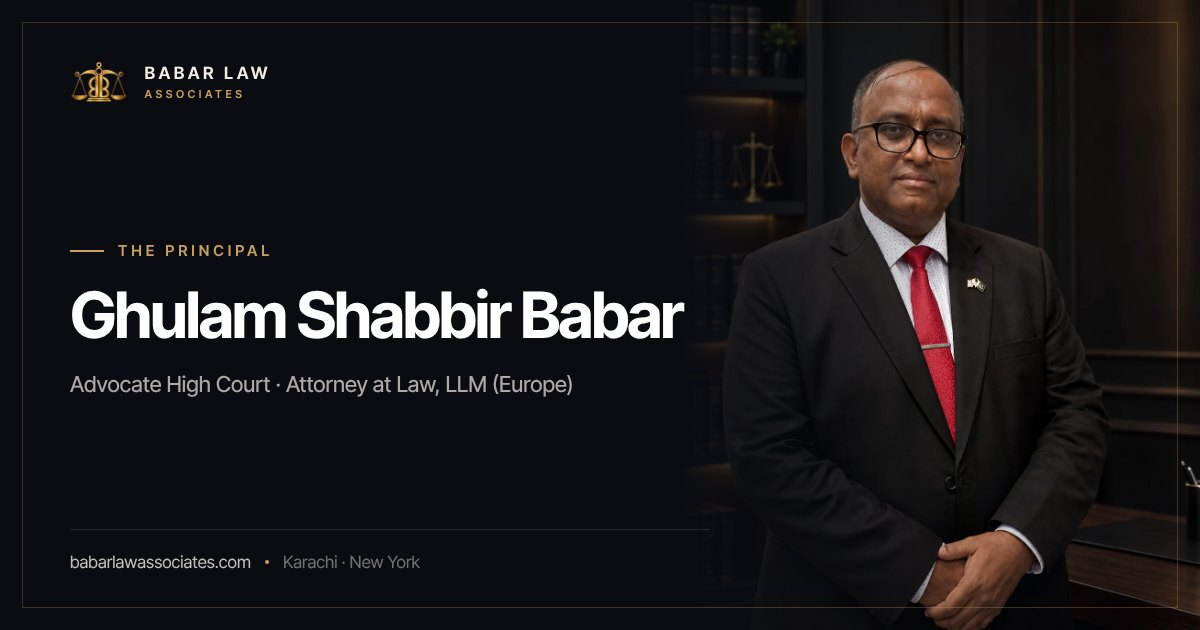
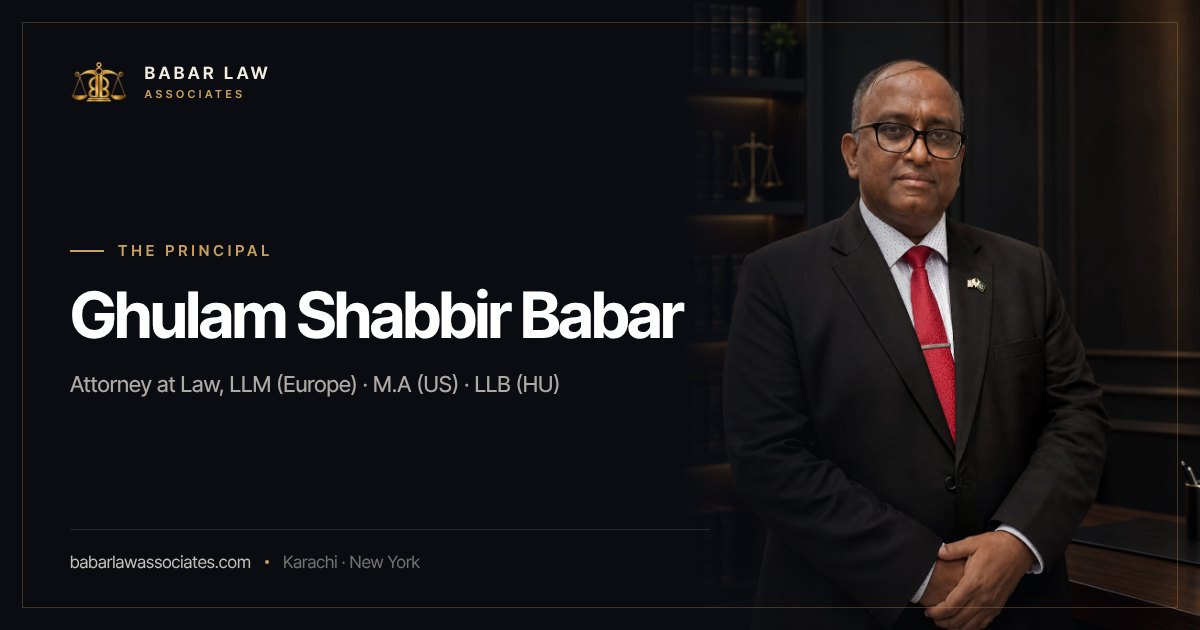
Add A+ Capital cooperation; update Mr. Babar's designation (#14)
* Add Insights articles, sharpen homepage title, track enquiry source

- New /insights index and three article pages (Greece Golden Visa,
  pre-arrest bail in Sindh, UK student visa refusals) with Article and
  breadcrumb JSON-LD, author byline, summary box and enquiry sidebar
- Latest insights section on the homepage; Insights in nav, footer, sitemap
- Homepage title/description now lead with "Lawyers & Advocates in Karachi"
- Contact form asks "How did you hear about us?" and passes it to the
  enquiry email and the generate_lead event

Claude-Session: https://claude.ai/code/session_01De2432audqsWNzksNNy9kc

* Redesign article pages for comfortable reading

Centred editorial header with standfirst, wide cover image overlapping
the header, a 700px reading column with a larger lead paragraph, sticky
"On this page" contents that tracks the current section, numbered step
cards, an author card and an end-of-article enquiry block.

Claude-Session: https://claude.ai/code/session_01De2432audqsWNzksNNy9kc

* Add hosted logo for the email signature

A small (14 KB) trimmed copy of the scales mark at /email/babar-law-mark.png,
referenced by the Gmail signature so the logo loads quickly in every inbox.

Claude-Session: https://claude.ai/code/session_01De2432audqsWNzksNNy9kc

* Give every page its own link-preview card

Shared links to any page now show a branded 1200x630 preview (logo, the
page's eyebrow and title, its photo, and the web address) on WhatsApp,
[…]

Changed region(s): [[0.0617, 0.573, 0.4933, 0.6333]]

diff --git a/lib/content.ts b/lib/content.ts
@@ -67,7 +67,9 @@ export const teamGroups = [
 
 export const principal = {
   name: "Ghulam Shabbir Babar",
-  designation: "Attorney at Law · LLM (Europe)",
+  designation: "Attorney at Law, LLM (Europe) · M.A (US) · LLB (HU) · Recognized Counsellor and Agent (British Council) · ADR, Mediator and Conciliator",
+  // Short form for bylines and tight spaces.
+  short: "Attorney at Law, LLM (Europe)",
   role: "Principal & Partner",
   image: "/assets/team/ghulam-shabbir-babar.jpg",
 };
@@ -120,7 +122,7 @@ export const areasHome = [
 
 export const areasFull = [
   { num: "01", title: "Immigration & visas", body: "Immigration consultancy provided globally since 2004, covering study, work, family and settlement routes, appeals and representation. Matters connected to the United States are handled together with the Law Offices of Manuel B. Quintal, P.C., New York.", tags: ["United States", "United Kingdom", "Canada", "European Union"] },
-  { num: "02", title: "Citizenship & residency by investment", body: "Advice on property-based investment programmes, including the Greek Golden Visa programme and Cyprus permanent residency through government-approved developments in Larnaca.", tags: ["Greece", "Cyprus", "Permanent residency", "Citizenship"] },
+  { num: "02", title: "Citizenship & residency by investment", body: "Advice on property-based investment programmes, including the Greek Golden Visa programme and Cyprus permanent residency through government-approved developments in Larnaca, and citizenship by investment programmes such as Vanuatu and São Tomé and Príncipe through A+ Capital.", tags: ["Greece", "Cyprus", "Permanent residency", "Citizenship"] },
   { num: "03", title: "Banking & consumer law", body: "Babar Law Associates has been enlisted in the UBL Legal Panel Team and provides services in banking law, consumer law and related fields.", tags: ["Banking law", "Consumer law", "Recovery"] },
   { num: "04", title: "Corporate & commercial", body: "Drafting and negotiation of agreements and contracts, mergers, acquisitions and privatisation of firms, corporations and banks, together with ongoing commercial advice for companies operating across borders.", tags: ["Contracts", "M&A", "Privatisation"] },
   { num: "05", title: "Litigation", body: "Litigation practice since 2004 in criminal, civil, constitutional petitions, service matters, labour law and family law before the courts of Pakistan.", tags: ["Criminal", "Civil", "Constitutional", "Service matters"] },
@@ -172,6 +174,7 @@ export const memberships = [
 ];
 
 export const experience = [
+  { period: "Nov 2026 to Present", place: "Hong Kong / Port Vila, Vanuatu · Remote", role: "Cooperation Agreement", org: "A Plus Capital Ltd (A+ Capital)", note: "Cooperation Agreement with A+ Capital in international immigration services: citizenship and residency by investment programmes, including Vanuatu and São Tomé and Príncipe." },
   { period: "Nov 2026 to Present", place: "Athens, Greece", role: "Cooperation Agreement", org: "Hellenic Investment Fund (HIF)", note: "Cooperation with Hellenic Investment Fund Co IKE (HIF), Athens, a real estate development and construction company with over 73 apartment buildings completed across Athens, on property investment in Greece, including for Greece Golden Visa clients." },
   { period: "2026", place: "Washington, D.C., United States", role: "Judge", org: "Philip C. Jessup International Law Moot Court Competition (ILSA) · White & Case International Rounds", note: "Invited as Judge at the White & Case International Rounds of the 2026 Philip C. Jessup International Law Moot Court Competition, Hyatt Regency, Capitol Hill, Washington, D.C., 28 March – 4 April 2026." },
   { period: "2026 to Present", place: "Greece", role: "Cooperation Agreement", org: "Epirus Assets Real Estate Investment", note: "Cooperation with Ms. Olga of Epirus Assets Real Estate Investment, Athens, Greece, on the Greece Golden Visa programme." },
@@ -201,6 +204,7 @@ export const partners = [
   { country: "Portugal / EU", name: "Visa Doro", role: "Cooperation agreement · Accredited STP Agent to Portugal & the EU", note: "Cooperation with Mr. José Mineiro, CEO of Visa Doro, on business- and property-based Golden Visa investment routes into Portugal.", logo: "/assets/visa-doro-logo.png", url: "https://www.visadoro.com/" },
   { country: "Greece", name: "CHRO'NI & Associates Law Firm", role: "Memorandum of Understanding", note: "MoU with Ms. Anastasia Chorni, Founder & Chief Lawyer of CHRO'NI & Associates Law Firm, to work together on the Greece Golden Visa programme.", logo: "/assets/chroni-logo.png", url: "https://chronilaw.com/" },
   { country: "Greece", name: "Hellenic Investment Fund (HIF)", role: "Cooperation agreement · since Nov 2026", note: "Cooperation with Hellenic Investment Fund Co IKE (HIF), Athens: a real estate development and construction company that has built over 73 apartment buildings across Athens and offers apartments, homes and villas to investors. The firm works with HIF as a B2B partner on property investment in Greece, including for Greece Golden Visa clients.", logo: "/assets/hif-logo.png", url: "https://www.hifgr.com/" },
+  { country: "Hong Kong / Vanuatu", name: "A Plus Capital Ltd (A+ Capital)", role: "Cooperation agreement · International immigration services", note: "Cooperation with A Plus Capital, an investment migration consultancy headquartered in Hong Kong with an office in Port Vila, Vanuatu, on citizenship and residency by investment. A Plus Capital is a licensed Marketing Agent of the São Tomé and Príncipe Citizenship by Investment Program (licence STP-2026-120), and its affiliate A+ South Pacific Citizenship Limited is an approved agent of the Vanuatu Development Support Program.", logo: "/assets/aplus-capital-logo.png", url: "https://a.plus/" },
   { country: "Cyprus", name: "Singularis Investment Ltd", role: "Consultant · since Feb 2018", note: "Agreement to promote all development projects of Singularis Investments in Larnaca, a Cyprus Government approved project for permanent residency applications.", logo: "/assets/singularis-logo.webp", url: undefined },
   { country: "Cyprus", name: "Karma Developers", role: "Cooperation agreement", note: "Cooperation on Cyprus development projects supporting permanent residency applications.", logo: "/assets/karma-logo.svg", url: undefined },
   { country: "United Arab Emirates", name: "Hotel101", role: "Cooperation agreement", note: "Cooperation with Hotel101, supporting real estate and investment-related client engagements in Dubai.", logo: "/assets/hotel101-logo.png", url: "https://hotel101global.com" },
@@ -247,7 +251,7 @@ export const emle = [
 export const faqs = [
   { q: "Which countries does the firm advise on?", a: "Immigration and investment work is handled for Pakistan, the United States, the United Kingdom, Canada, Cyprus, Greece and the wider European Union. Litigation is conducted before the courts of Pakistan; matters in New York are handled jointly with the Law Offices of Manuel B. Quintal, P.C." },
   { q: "Can you assist clients who live in the US or UK?", a: "Yes. A large part of the practice is conducted remotely for clients abroad, with documents exchanged electronically and consultations held by video call across time zones." },
-  { q: "What is the Golden Visa / residency by investment work?", a: "The firm advises on property-based investment routes, including the Greek Golden Visa programme through PassBeyond and Cyprus permanent residency through approved developments in Larnaca." },
+  { q: "What is the Golden Visa / residency by investment work?", a: "The firm advises on property-based investment routes, including the Greek Golden Visa programme through PassBeyond and Cyprus permanent residency through approved developments in Larnaca, and citizenship by investment programmes through A+ Capital." },
   { q: "Do you act for banks and companies?", a: "Yes. Babar Law Associates is enlisted on the UBL legal panel and advises on banking law, consumer law, corporate and commercial matters, including drafting of agreements, contracts, mergers, acquisitions and privatisation." },
   { q: "How do consultations work?", a: "Send a short summary of your matter through the contact page or by email. You will receive an initial assessment and, where the firm can act, a scope of work and fee basis before any engagement begins." },
   { q: "Does the firm take academic and research work?", a: "Ghulam Shabbir Babar serves as Visiting Professor and LLM thesis supervisor at several universities and is available for guest lectures, curriculum advice and supervision through the EMLE network." },
@@ -272,7 +276,7 @@ export const matterTypes = [
   {
     id: "investment",
     label: "Citizenship & Residency by Investment",
-    helper: "Let us know which programme interests you (Greece Golden Visa, Cyprus permanent residency) and your approximate investment budget.",
+    helper: "Let us know which programme interests you (Greece Golden Visa, Cyprus permanent residency, citizenship by investment) and your approximate investment budget.",
     fields: [
       { name: "programCountry", label: "Programme country", placeholder: "e.g. Greece or Cyprus" },
       { name: "budget", label: "Approximate investment budget", placeholder: "e.g. €250,000 – €400,000" },

diff --git a/lib/practice.ts b/lib/practice.ts
@@ -75,16 +75,18 @@ export const practicePages: PracticePage[] = [
     seoTitle: "Golden Visa Lawyer: Greece, Cyprus & Portugal",
     description:
       "Golden Visa and property-based residency advice for Greece, Cyprus and Portugal, through government-approved developments and partners in Greece, Cyprus and Portugal.",
-    lead: "Advice on property-based residency and citizenship programmes in Greece, Cyprus and Portugal, through partners on the ground in each country.",
+    lead: "Advice on residency and citizenship by investment: property-based Golden Visa routes in Greece, Cyprus and Portugal, and citizenship programmes through partners on the ground.",
     body: [
       "Investment migration has been part of the firm's practice since 2017, when Babar Law Associates began working with Cyprus developers including Karma Developers, Singularis Investment Ltd, JWPegasus Ltd and Giovani Developers Limited. Singularis developments in Larnaca are approved by the Cyprus Government for permanent residency applications. (Cyprus closed its citizenship-by-investment programme in 2020.)",
       "For Greece, the firm cooperates with PassBeyond in Athens, where Mr. Babar is Relationship Manager, with Epirus Assets Real Estate Investment and Hellenic Investment Fund (HIF), real estate developers in Athens, and with CHRO'NI & Associates Law Firm under a memorandum of understanding on the Greece Golden Visa programme. For Portugal and the wider EU, it works with Visa Doro, an Accredited STP Agent.",
+      "For citizenship by investment, the firm cooperates with A Plus Capital (A+ Capital), headquartered in Hong Kong with an office in Port Vila, Vanuatu. A+ Capital is a licensed Marketing Agent of the São Tomé and Príncipe Citizenship by Investment Program, and its affiliate is an approved agent of the Vanuatu Development Support Program.",
       "Programme rules and investment thresholds change from time to time, so every engagement starts with a current assessment of the options for the client and their family.",
     ],
     services: [
       "Greece Golden Visa through property investment",
       "Cyprus permanent residency applications",
       "Portugal and EU Golden Visa routes",
+      "Citizenship by investment, including Vanuatu and São Tomé and Príncipe, with A+ Capital",
       "Choosing a programme and a government-approved development",
       "Coordination with developers, lawyers and agents in each country",
       "Preparation of the application file",
@@ -97,7 +99,7 @@ export const practicePages: PracticePage[] = [
     side: "/assets/gallery/cyprus-01.jpg",
     sideAlt: "Ghulam Shabbir Babar on a site visit to Karma Developers properties, Cyprus",
     sidePos: "center",
-    facts: [{ value: 3, label: "Programme countries: Greece, Cyprus and Portugal" }, { value: 2017, label: "Investment migration work since" }, { value: 10, label: "Partner developers, firms and agents" }],
+    facts: [{ value: 3, label: "Golden Visa countries: Greece, Cyprus and Portugal" }, { value: 2017, label: "Investment migration work since" }, { value: 11, label: "Partner developers, firms and agents" }],
   },
   {
     num: "03",

diff --git a/app/insights/[slug]/page.tsx b/app/insights/[slug]/page.tsx
@@ -151,7 +151,7 @@ export default async function ArticlePage({ params }: PageProps<"/insights/[slug
               </span>
               <span>
                 <span className="block text-white">{principal.name}</span>
-                <span className="block text-[12.5px] text-cream/55">Advocate High Court</span>
+                <span className="block text-[12.5px] text-cream/55">{principal.short}</span>
               </span>
             </span>
             <span className="hidden sm:block w-px h-8 bg-cream/15" />
@@ -216,8 +216,7 @@ export default async function ArticlePage({ params }: PageProps<"/insights/[slug
                 <div className="text-[12px] tracking-[0.14em] uppercase text-ink/45 mb-1.5">Written by</div>
                 <Link href="/about" className="font-display font-medium text-[21px] text-ink hover:text-gold-deep">{principal.name}</Link>
                 <p className="m-0 mt-2 text-[15px] leading-relaxed text-ink/65">
-                  Advocate of the High Court of Sindh and Foreign Attorney in New York, with an Erasmus Mundus LLM
-                  from Bologna and Ghent. In litigation and international practice since 2004.
+                  {principal.designation}. Foreign Attorney in New York, in litigation and international practice since 2004.
                 </p>
               </div>
             </div>

diff --git a/app/layout.tsx b/app/layout.tsx
@@ -21,7 +21,7 @@ const interTight = Inter_Tight({
 });
 
 const description =
-  "Lawyers and advocates in Karachi since 2004: litigation before the High Court of Sindh, bail, immigration and Golden Visa, banking and corporate law. Led by Ghulam Shabbir Babar, Advocate High Court. Call +92 300 2723976.";
+  "Lawyers and advocates in Karachi since 2004: litigation before the High Court of Sindh, bail, immigration and Golden Visa, banking and corporate law. Led by Ghulam Shabbir Babar, Attorney at Law, LLM (Europe). Call +92 300 2723976.";
 
 export const metadata: Metadata = {
   metadataBase: new URL(siteUrl),
@@ -103,7 +103,7 @@ const jsonLd = {
       "@type": "Person",
       "@id": `${siteUrl}/#principal`,
       name: "Ghulam Shabbir Babar",
-      jobTitle: "Advocate High Court, Attorney at Law, LLM (Europe)",
+      jobTitle: "Attorney at Law, LLM (Europe), M.A (US), LLB (HU), Recognized Counsellor and Agent (British Council), ADR, Mediator and Conciliator",
       url: `${siteUrl}/about`,
       image: `${siteUrl}/assets/team/ghulam-shabbir-babar.jpg`,
       worksFor: { "@id": `${siteUrl}/#firm` },

diff --git a/components/heroes/AboutHero.tsx b/components/heroes/AboutHero.tsx
@@ -4,6 +4,7 @@ import Image from "next/image";
 import type { CSSProperties } from "react";
 import HeroFrame, { FadeIn } from "@/components/heroes/HeroFrame";
 import SplitWords from "@/components/motion/SplitWords";
+import { principal } from "@/lib/content";
 
 const lines = [
   ["Practice", "Advocate of the High Court of Sindh, 2006"],
@@ -24,8 +25,8 @@ export default function AboutHero() {
           />
           <FadeIn delay={0.3}>
             <p className="text-gold-light text-[clamp(17px,1.6vw,21px)] leading-snug mb-10 max-w-[560px]">
-              Attorney at Law · LLM (Europe). Litigator since 2004, international consultant in immigration,
-              corporate and commercial matters.
+              {principal.designation}. Litigator since 2004, international consultant in immigration, corporate
+              and commercial matters.
             </p>
           </FadeIn>
           <div className="border-t border-cream/10">

diff --git a/app/about/page.tsx b/app/about/page.tsx
@@ -12,7 +12,7 @@ import JsonLd from "@/components/JsonLd";
 import { breadcrumbLd, pageMeta } from "@/lib/site";
 
 export const metadata: Metadata = pageMeta({
-  title: "Ghulam Shabbir Babar, Advocate High Court",
+  title: "Ghulam Shabbir Babar, Attorney at Law, LLM (Europe)",
   description:
     "Profile of Ghulam Shabbir Babar: Advocate of the High Court of Sindh since 2006, Foreign Attorney in New York, Erasmus Mundus LLM (Bologna and Ghent), former Special Public Prosecutor and visiting professor of law.",
   path: "/about",

diff --git a/app/page.tsx b/app/page.tsx
@@ -147,7 +147,7 @@ export default function HomePage() {
           <div>
             <SectionHead
               label="The principal"
-              title="Advocate of the High Court of Sindh, and counsel abroad."
+              title="Attorney at Law, mediator, and counsel abroad."
               className="mb-9"
             />
             <Reveal delay={0.1}>
